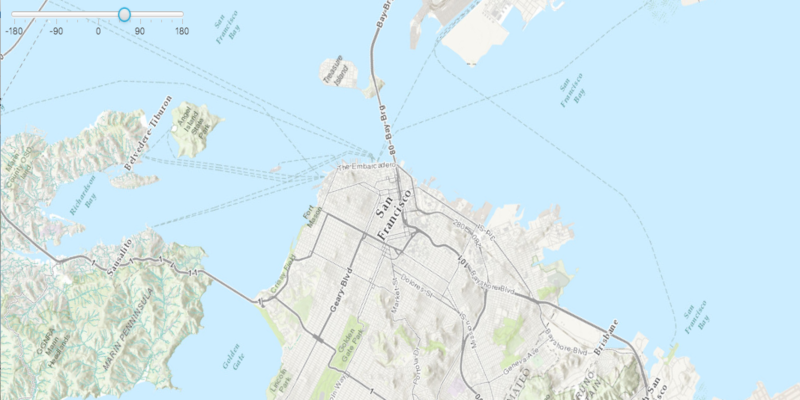
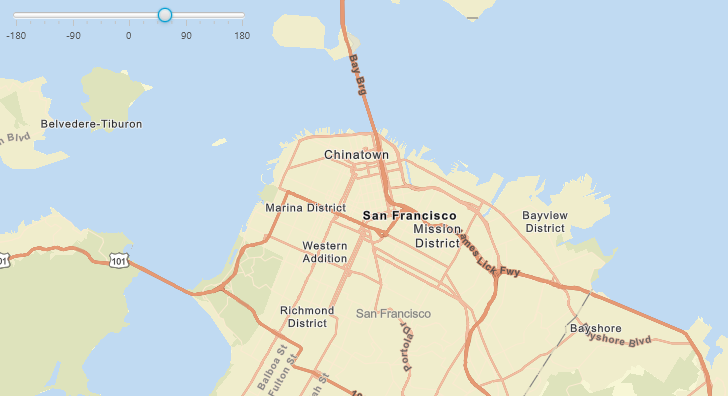
Updating image and sorting out the slider ticks

diff --git a/src/main/java/com/esri/samples/mapview/map_rotation/MapRotationSample.java b/src/main/java/com/esri/samples/mapview/map_rotation/MapRotationSample.java
@@ -55,6 +55,9 @@ public class MapRotationSample extends Application {
       // create a slider with a range of 360 units and start it half way
       Slider slider = new Slider(-180.0, 180.0, 0.0);
       slider.setMaxWidth(240.0);
+      slider.setShowTickLabels(true);
+      slider.setShowTickMarks(true);
+      slider.setMajorTickUnit(90);
       slider.setDisable(true);
 
       // listen for the value in the slider to change
